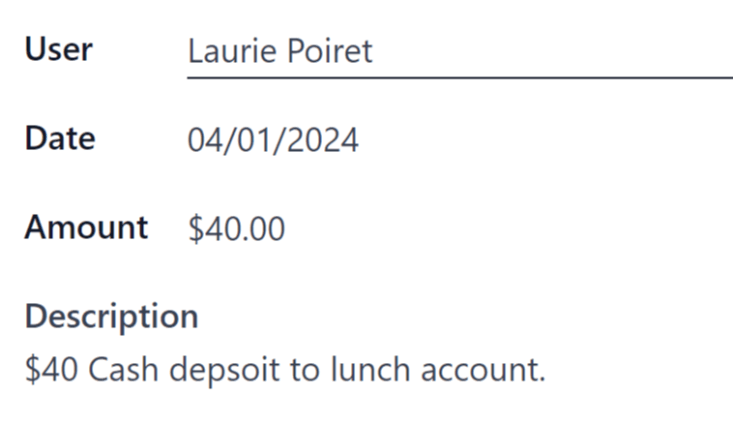
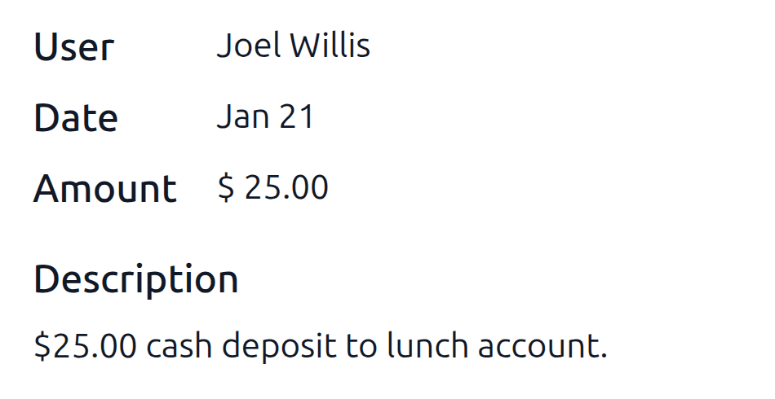
[IMP] Lunch: Update manage user accounts
#updated per FEKU

closes odoo/documentation#16145

X-original-commit: 9b89fd6b82c5627f75a1f03c59f1414d92d4f77e

diff --git a/content/applications/hr/lunch/user-accounts.rst b/content/applications/hr/lunch/user-accounts.rst
@@ -3,17 +3,14 @@ Manage user accounts
 ====================
 
 In Odoo's **Lunch** application, users pay for products directly from their **Lunch** app account.
-For funds to appear in their account, a **Lunch** app manager **must** transfer funds into each
-user's account.
+For funds to appear in their account, a **Lunch** app manager must transfer funds into each user's
+account.
 
 .. important::
-   To add funds and manage user accounts, the user must have :guilabel:`Administrator` access rights
-   set for the **Lunch** application. This is verified by navigating to :menuselection:`Settings app
-   -->` :icon:`oi-arrow-right` :guilabel:`Manage Users`. Then, click on a user to view their various
-   settings and access rights.
-
-   For more information, refer to the :doc:`Access rights <../../general/users/access_rights/>`
-   documentation.
+   To add funds and manage user accounts, the user must have *Administrator* :doc:`access rights
+   <../../general/users/access_rights/>` for the **Lunch** application. Access rights can be managed
+   by navigating to the :menuselection:`Settings app` app and clicking :icon:`oi-arrow-right`
+   :guilabel:`Manage Users`. Click on a user to view their individual access rights.
 
 The **Lunch** application does **not** directly interface in any way with software or products
 linked to any monetary accounts or billing. Money **cannot** be transferred from users' bank
@@ -29,7 +26,7 @@ lunch accounts are replenished.
    - Cash is handed to the **Lunch** app manager, who then updates the user's account.
    - Money is automatically deducted from the user's paychecks, then the **Lunch** app manager
      updates the account when paychecks are issued. This requires :ref:`adding a salary attachment
-     <payroll/worked-days-inputs>` for the user's payslip in the *Payroll* app.
+     <payroll/worked-days-inputs>` for the user's payslip in the **Payroll** app.
    - Companies can sell "lunch tickets" at a set price (for example, one ticket costs $5.00). Users
      can purchase tickets from a **Lunch** app manager, who then updates the user's account.
 
@@ -58,43 +55,42 @@ the :guilabel:`Cash Moves` dashboard.
 
 A blank :guilabel:`Cash Moves` form loads. Enter the following information on the form:
 
-- :guilabel:`User`: select the user depositing cash into their account from the drop-down menu. If
+- :guilabel:`User`: Select the user depositing cash into their account from the drop-down menu. If
   the user is not in the database, they can be created by typing their name in the :guilabel:`User`
   field, and clicking either :guilabel:`Create "user"` or :guilabel:`Create and edit...` to create
   the user and edit the :guilabel:`Create User` form.
-- :guilabel:`Date`: using the calendar popover, select the date the transaction occurred.
-- :guilabel:`Amount`: enter the amount being added to the lunch account.
-- :guilabel:`Description`: enter a brief description of the transaction.
+- :guilabel:`Date`: Select the date the transaction occurred using the calendar popover.
+- :guilabel:`Amount`: Enter the amount being added to the lunch account.
+- :guilabel:`Description`: Enter a brief description of the transaction.
 
 .. image:: user-accounts/cash-move-form.png
-   :alt: The cash move form filled out for a transaction of $40.00.
+   :alt: The cash move form filled out for a transaction of $25.00.
 
 Control Accounts
 ================
 
-An overview of every transaction in the **Lunch** app, including all cash deposits and purchases,
-can be viewed on the main *Control Accounts* dashboard. To access this dashboard, navigate to
+The main *Control Accounts* dashboard provides an overview of every transaction in the **Lunch**
+app, including all cash deposits and purchases. To access this dashboard, navigate to
 :menuselection:`Lunch app --> Manager --> Control Accounts.`
 
-All transactions are grouped :guilabel:`By Employee`, and listed alphabetically by the user's first
-name. At the end of the user's name, a number appears. This indicates the number of individual
-records logged for that user.
+Transactions are grouped :guilabel:`By Employee`, and listed alphabetically by the user's first
+name. Their available balance is displayed in the :guilabel:`Amount` column. This takes into account
+all deposits and transactions to their lunch account.
 
-The default view is to have all individual transactions hidden. To view all transactions for a user,
-click the :icon:`fa-caret-right` :guilabel:`(triangle)` icon to the left of the desired name to
-expand that specific group.
+Individual transactions are hidden in the default view. To view all transactions for a specific
+user, click the :icon:`fa-caret-right` :guilabel:`(triangle)` icon to the left of their name to
+expand the full list of transactions associated with their lunch account.
 
-Each record includes the :guilabel:`Date`, :guilabel:`User`, :guilabel:`Description`, and
+Each line includes the transaction :guilabel:`Date`, :guilabel:`User`, :guilabel:`Description`, and
 :guilabel:`Amount`.
 
 .. image:: user-accounts/control-accounts.png
    :alt: The Control Accounts dashboard with two employee's transactions expanded.
 
 .. important::
-   This list only displays the various transactions within the **Lunch** app, and does **not** allow
-   modifications to be made to any records listed.
+   The :guilabel:`Control Accounts` dashboard is a view-only list of transactions within the
+   **Lunch** app, and does **not** allow modifications to be made to any records listed.
 
-   Cash moves can be modified, but **only** from the :ref:`Cash Moves <lunch/cash-moves>` dashboard,
-   not from the :guilabel:`Control Accounts` dashboard.
+   Cash moves can be modified through the :ref:`Cash Moves <lunch/cash-moves>` dashboard, only.
 
-   It is **not** possible to modify any product-related records.
+   Product-related records **cannot** be modified.
